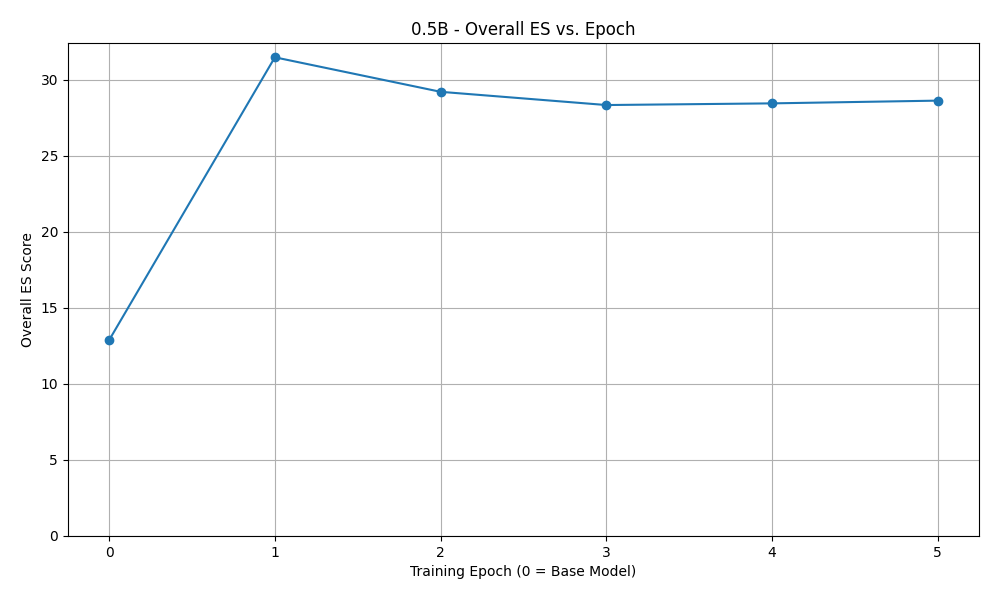
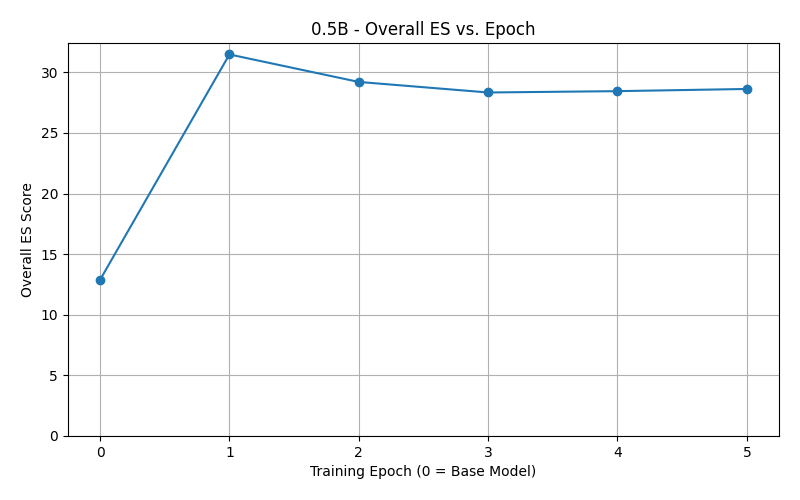
resize plots

Changed region(s): [[0.0, 0.03, 1.0, 0.96]]

diff --git a/lora_tune/results/plot_results.py b/lora_tune/results/plot_results.py
@@ -92,7 +92,7 @@ def plot_overall_metrics(epoch_data, model_size, epochs, output_dir):
     for metric in metrics_to_plot:
         values = [epoch_data[ep]["overall"][metric] for ep in epochs]
 
-        plt.figure(figsize=(10, 6))
+        plt.figure(figsize=(8, 5))
         plt.plot(epochs, values, marker="o", linestyle="-")
         plt.title(f"{model_size} - Overall {metric} vs. Epoch")
         plt.xlabel("Training Epoch (0 = Base Model)")
@@ -127,7 +127,7 @@ def plot_language_metrics(epoch_data, model_size, epochs, output_dir):
         em_values = [epoch_data[ep]["languages"][lang]["EM"] for ep in epochs]
         es_values = [epoch_data[ep]["languages"][lang]["ES"] for ep in epochs]
 
-        fig, ax1 = plt.subplots(figsize=(12, 7))
+        fig, ax1 = plt.subplots(figsize=(10, 6))
 
         color_em = "tab:blue"
         ax1.set_xlabel("Training Epoch (0 = Base Model)")
@@ -187,7 +187,7 @@ def plot_consolidated_em_all_languages(epoch_data, model_size, epochs, output_di
         print("No language-specific data found for consolidated EM plot.")
         return
 
-    plt.figure(figsize=(12, 7))
+    plt.figure(figsize=(10, 6))
 
     # Define markers and linestyles to differentiate languages
     markers = ["o", "s", "^", "d", "v", "<", ">", "p", "*", "h", "H", "+", "x", "D"]
@@ -232,7 +232,7 @@ def plot_consolidated_es_all_languages(epoch_data, model_size, epochs, output_di
         print("No language-specific data found for consolidated ES plot.")
         return
 
-    plt.figure(figsize=(12, 7))
+    plt.figure(figsize=(10, 6))
 
     markers = ["o", "s", "^", "d", "v", "<", ">", "p", "*", "h", "H", "+", "x", "D"]
     linestyles = ["-", "--", "-.", ":"]
